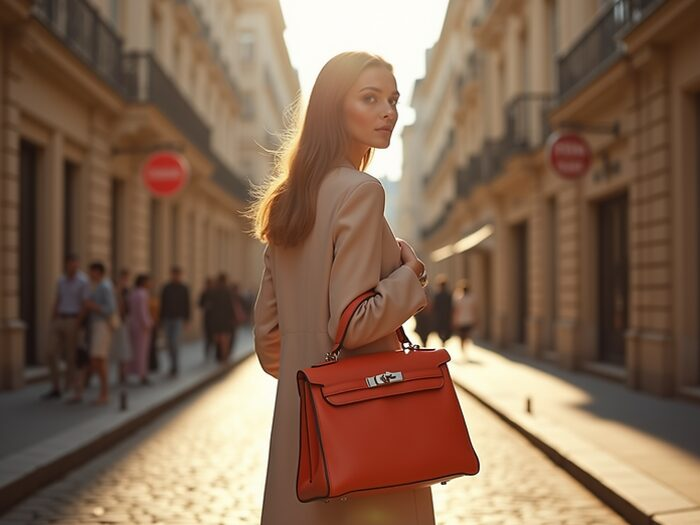
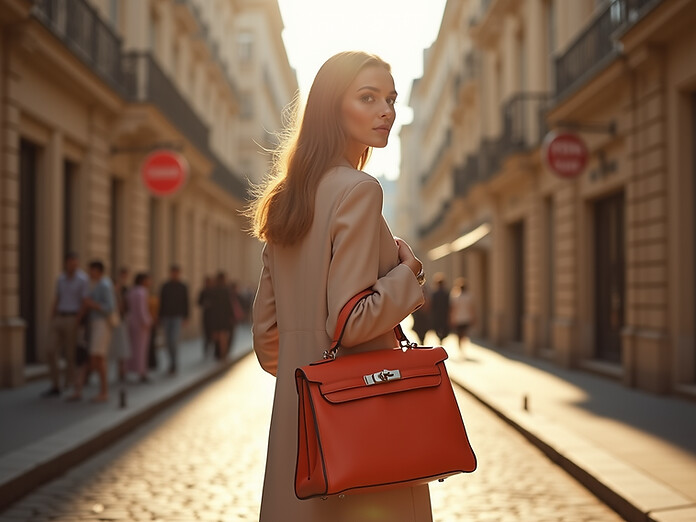
Reemplazar la foto principal de Nuestra Historia por la de estilo
Se saca el recuadro chico superpuesto en el margen inferior derecho
y esa foto pasa a ser la principal, reemplazando la de Florencia --
en desktop y mobile por igual (antes el recuadro se ocultaba en
mobile con hidden sm:block, ahora no hay distincion). Alt text
actualizado a 'Estilo LVSM' (ya no dice 'Florencia, fundadora',
para no atribuirle la imagen a ella ya que no es su foto real).

Se regenero el archivo a su resolucion maxima disponible (696x522,
limite del original) con mas calidad, al pasar a mostrarse mas
grande que en el recuadro chico anterior.

diff --git a/src/components/sections/AboutUs.tsx b/src/components/sections/AboutUs.tsx
@@ -1,6 +1,5 @@
 import { motion } from 'motion/react';
 import { SmartImage } from '../ui/SmartImage';
-import founderPhoto from '../../assets/founder-florencia.jpeg';
 import streetStylePhoto from '../../assets/about-street-style.jpeg';
 
 export function AboutUs() {
@@ -42,21 +41,13 @@ export function AboutUs() {
           <motion.div initial={{ opacity: 0, scale: 0.9 }} whileInView={{ opacity: 1, scale: 1 }} viewport={{ once: true }} transition={{ duration: 0.8 }} className="relative">
             <div className="aspect-[4/5] rounded-[60px] overflow-hidden shadow-2xl relative z-10">
               <SmartImage
-                src={founderPhoto}
-                alt="Florencia, fundadora de LVSM"
+                src={streetStylePhoto}
+                alt="Estilo LVSM"
                 wrapperClassName="w-full h-full"
                 className="w-full h-full object-cover"
               />
             </div>
             <div className="absolute -bottom-6 -right-6 w-64 h-64 bg-brand-gold/10 rounded-full -z-0 blur-3xl" />
-            <div className="absolute -bottom-10 -right-8 w-40 h-52 rounded-3xl overflow-hidden shadow-xl border-4 border-white z-20 hidden sm:block">
-              <SmartImage
-                src={streetStylePhoto}
-                alt="Ambientación de estilo LVSM"
-                wrapperClassName="w-full h-full"
-                className="w-full h-full object-cover"
-              />
-            </div>
             <div className="absolute -top-10 left-[calc(-2.5rem+0.5cm)] p-6 bg-brand-paper rounded-2xl shadow-xl z-20 max-w-[200px]">
               <p className="text-xs font-serif italic">&ldquo;Cada cartera tiene una historia que merece ser continuada.&rdquo;</p>
             </div>
